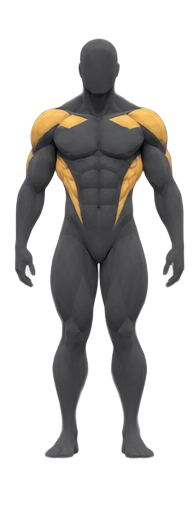
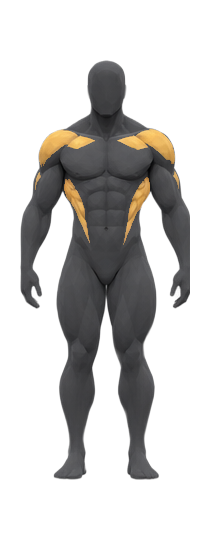
Goals: transparent pixel-perfect physique figures + picker crash fix
Rebuild all 16 archetype figures (8 base + 8 lit) so the hover/active
highlight is a true single-image swap with zero shift:

- Matte each figure to a transparent background (rembg u2net) and keep only
  the largest connected component, removing stray blobs/halos.
- Align each lit cell to its base cell via FFT phase cross-correlation, then
  paint ONLY the gold highlight pixels onto the identical base body. Base and
  lit therefore share byte-identical alpha (verified (a==b).all()), so swapping
  the <img> src can never move the figure — only the grow-muscle fill changes.
- Center every figure on a padded 210x540 canvas; nothing is cropped.
- styles.css: .phys-fig aspect-ratio 210/540, width 92px to match.

Fix PhysiquePicker mount crash: the preload effect depended on the derived
`ids` array, which the React Compiler could reference in a temporal dead zone
("Cannot access 'ids' before initialization"), so the sheet never opened.
Depend on the primitive `sex` instead.

Verified live in-browser (test account): transparent floating figures, in-place
lit swap on hover for every card with no shift/artifacts/crop, and the + action
icon on the empty Physique card.

Claude-Session: https://claude.ai/code/session_01BAgqTx4XiGeaj8SSxpQw7d

diff --git a/client/src/views/PhysiquePicker.tsx b/client/src/views/PhysiquePicker.tsx
@@ -26,12 +26,14 @@ export function PhysiquePicker({ onClose }: { onClose: () => void }) {
   const ids = ARCHETYPES_BY_SEX(sex);
 
   // Preload the highlighted variants so the hover/active swap is instant.
+  // Depend on the primitive `sex` (not `ids`) so the React Compiler can't
+  // create a temporal-dead-zone reference to `ids` in the effect.
   useEffect(() => {
-    for (const id of ids) {
+    for (const id of ARCHETYPES_BY_SEX(sex)) {
       const img = new Image();
       img.src = `/physiques/${id}-lit.png`;
     }
-  }, [ids]);
+  }, [sex]);
 
   const use = () => {
     if (!picked) return;

diff --git a/client/src/styles.css b/client/src/styles.css
@@ -14541,9 +14541,9 @@ button.exd-media {
    the src — one element, fixed box, so the figure never moves on hover/active. */
 .phys-fig {
   display: block;
-  width: 82px;
+  width: 92px;
   margin: 0 auto;
-  aspect-ratio: 192 / 512;
+  aspect-ratio: 210 / 540;
   object-fit: contain;
 }
 .phys-name {
